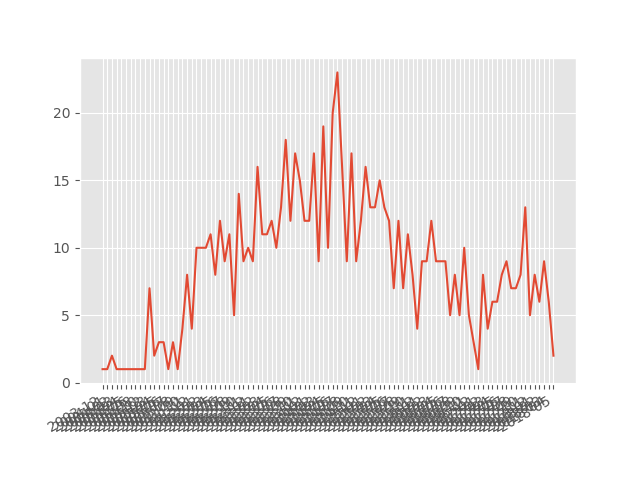
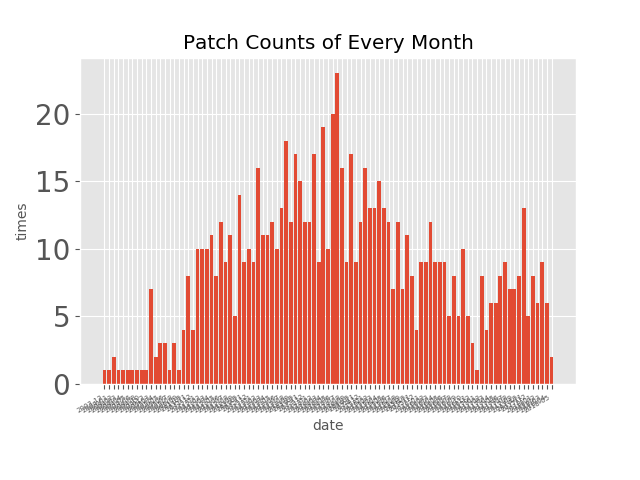
Update

diff --git a/analysis.py b/analysis.py
@@ -2,33 +2,79 @@ import pandas as pd
 from matplotlib import pyplot as plt
 plt.style.use("ggplot")
 
-result={}
-df=pd.read_csv("results/result_"+"crypto"+".csv",index_col=0)
-result['crypto']=pd.read_csv("results/result_"+"crypto"+".csv",index_col=0)
-result['fs']=pd.read_csv("results/result_"+"fs"+".csv",index_col=0)
-result['ipc']=pd.read_csv("results/result_"+"ipc"+".csv",index_col=0)
-result['kvm']=pd.read_csv("results/result_"+"kvm"+".csv",index_col=0)
-result['md']=pd.read_csv("results/result_"+"md"+".csv",index_col=0)
-result['mm']=pd.read_csv("results/result_"+"mm"+".csv",index_col=0)
+result = {}
+df = pd.read_csv("results/result_"+"crypto"+".csv", index_col=0)
+result['crypto'] = pd.read_csv("results/result_"+"crypto"+".csv", index_col=0)
+result['fs'] = pd.read_csv("results/result_"+"fs"+".csv", index_col=0)
+result['ipc'] = pd.read_csv("results/result_"+"ipc"+".csv", index_col=0)
+result['kvm'] = pd.read_csv("results/result_"+"kvm"+".csv", index_col=0)
+result['md'] = pd.read_csv("results/result_"+"md"+".csv", index_col=0)
+result['mm'] = pd.read_csv("results/result_"+"mm"+".csv", index_col=0)
+
 
 def cutTime(df):
-    list=df["editTime"].split("-",2)
+    list = df["editTime"].split("-", 2)
     return list[0]+"-"+list[1]
 
-date=df.apply(cutTime,axis=1)
-for item in result:
-    result[item]["editTime"]=date
-    result[item]["patchName"]=df.apply(lambda x: x["patchName"].split("-")[1],axis=1)
 
-df["editTime"]=date
-df["patchName"]=df.apply(lambda x: x["patchName"].split("-")[1],axis=1)
-print(df.groupby(["editTime"]).size().values)
-plt.figure()  
-plt.plot(df.groupby(["editTime"]).size().index,df.groupby(["editTime"]).size().values)
+date = df.apply(cutTime, axis=1)
+for item in result:
+    result[item]["editTime"] = date
+    result[item]["patchName"] = df.apply(
+        lambda x: x["patchName"].split("-")[1], axis=1)
+
+df["editTime"] = date
+df["patchName"] = df.apply(lambda x: x["patchName"].split("-")[1], axis=1)
+# print(df.groupby(["editTime"]).size().values)
+# patch次数
+plt.figure()
+plt.bar(df.groupby(["editTime"]).size().index,df.groupby(["editTime"]).size().values)
 plt.gcf().autofmt_xdate()
-# plt.xticks(fontsize=20)
-# plt.yticks(fontsize=20)
-# plt.xlabel("version", fontsize=20)
-# plt.ylabel("times", fontsize=20)
+plt.xticks(fontsize=5)
+plt.yticks(fontsize=20)
+plt.xlabel("date", fontsize=10)
+plt.ylabel("times", fontsize=10)
+plt.title("Patch Counts of Every Month")
 plt.savefig("pictures/"+"patch-time.png")
-plt.show()
+
+# print(df.apply(lambda x:x["diffCount"]/x["count"],axis=1).values)
+
+# # diff占比
+# for item in result:
+#     plt.figure()
+#     x=result[item]["patchName"].values
+#     y=result[item].apply(lambda x:x["diffCount"]/x["count"],axis=1).values
+#     plt.plot(x,y)
+#     plt.gcf().autofmt_xdate()
+#     plt.xticks(fontsize=5)
+#     plt.yticks(fontsize=10)
+#     plt.xlabel("date", fontsize=10)
+#     plt.ylabel("times", fontsize=10)
+#     plt.title("Diff Proportion of Every Patch"+" About "+item)
+#     plt.savefig("pictures/"+"diffCount_"+item+".png")
+
+# # 修改数量
+# for item in result:
+#     plt.figure()
+#     x = result[item]["patchName"].values
+#     y = result[item].apply(lambda x: x["editCount"], axis=1).values
+#     plt.plot(x, y)
+#     plt.xticks(fontsize=5)
+#     plt.yticks(fontsize=10)
+#     plt.xlabel("version", fontsize=10)
+#     plt.ylabel("times", fontsize=10)
+#     plt.title("EditCounts of Every Patch"+" About "+item)
+#     plt.savefig("pictures/"+"EditCounts_"+item+".png")
+
+# for item in result:
+#     plt.figure()
+#     x = result[item]["patchName"].values
+#     y = result[item].apply(lambda x: x["editCount"], axis=1).values
+#     plt.plot(x, y)
+#     # plt.gcf().autofmt_xdate()
+#     plt.xticks(fontsize=5)
+#     plt.yticks(fontsize=10)
+#     plt.xlabel("version", fontsize=10)
+#     plt.ylabel("times", fontsize=10)
+#     plt.title("EditCounts of Every Patch"+" About "+item)
+#     plt.savefig("pictures/"+"EditCounts_"+item+".png")
